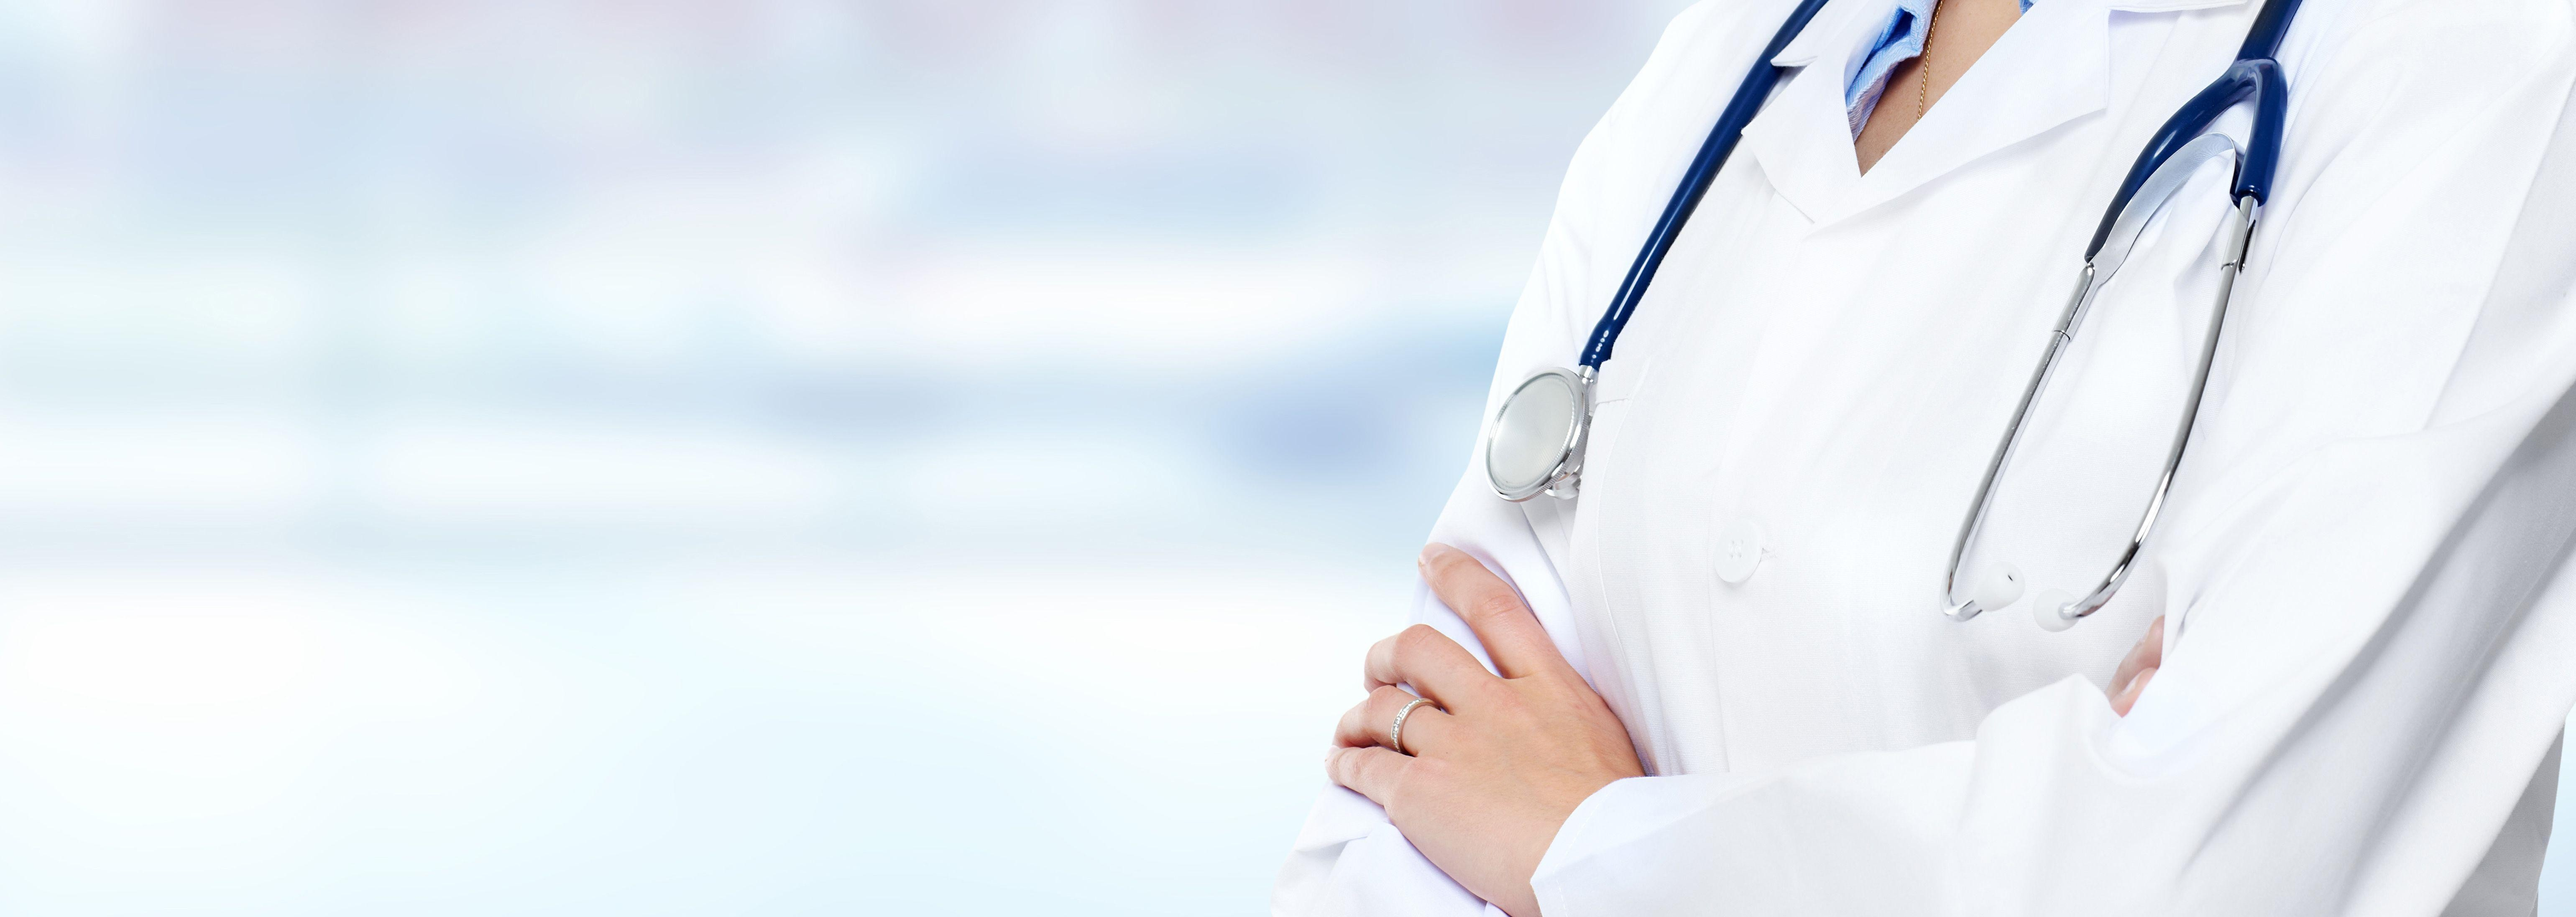
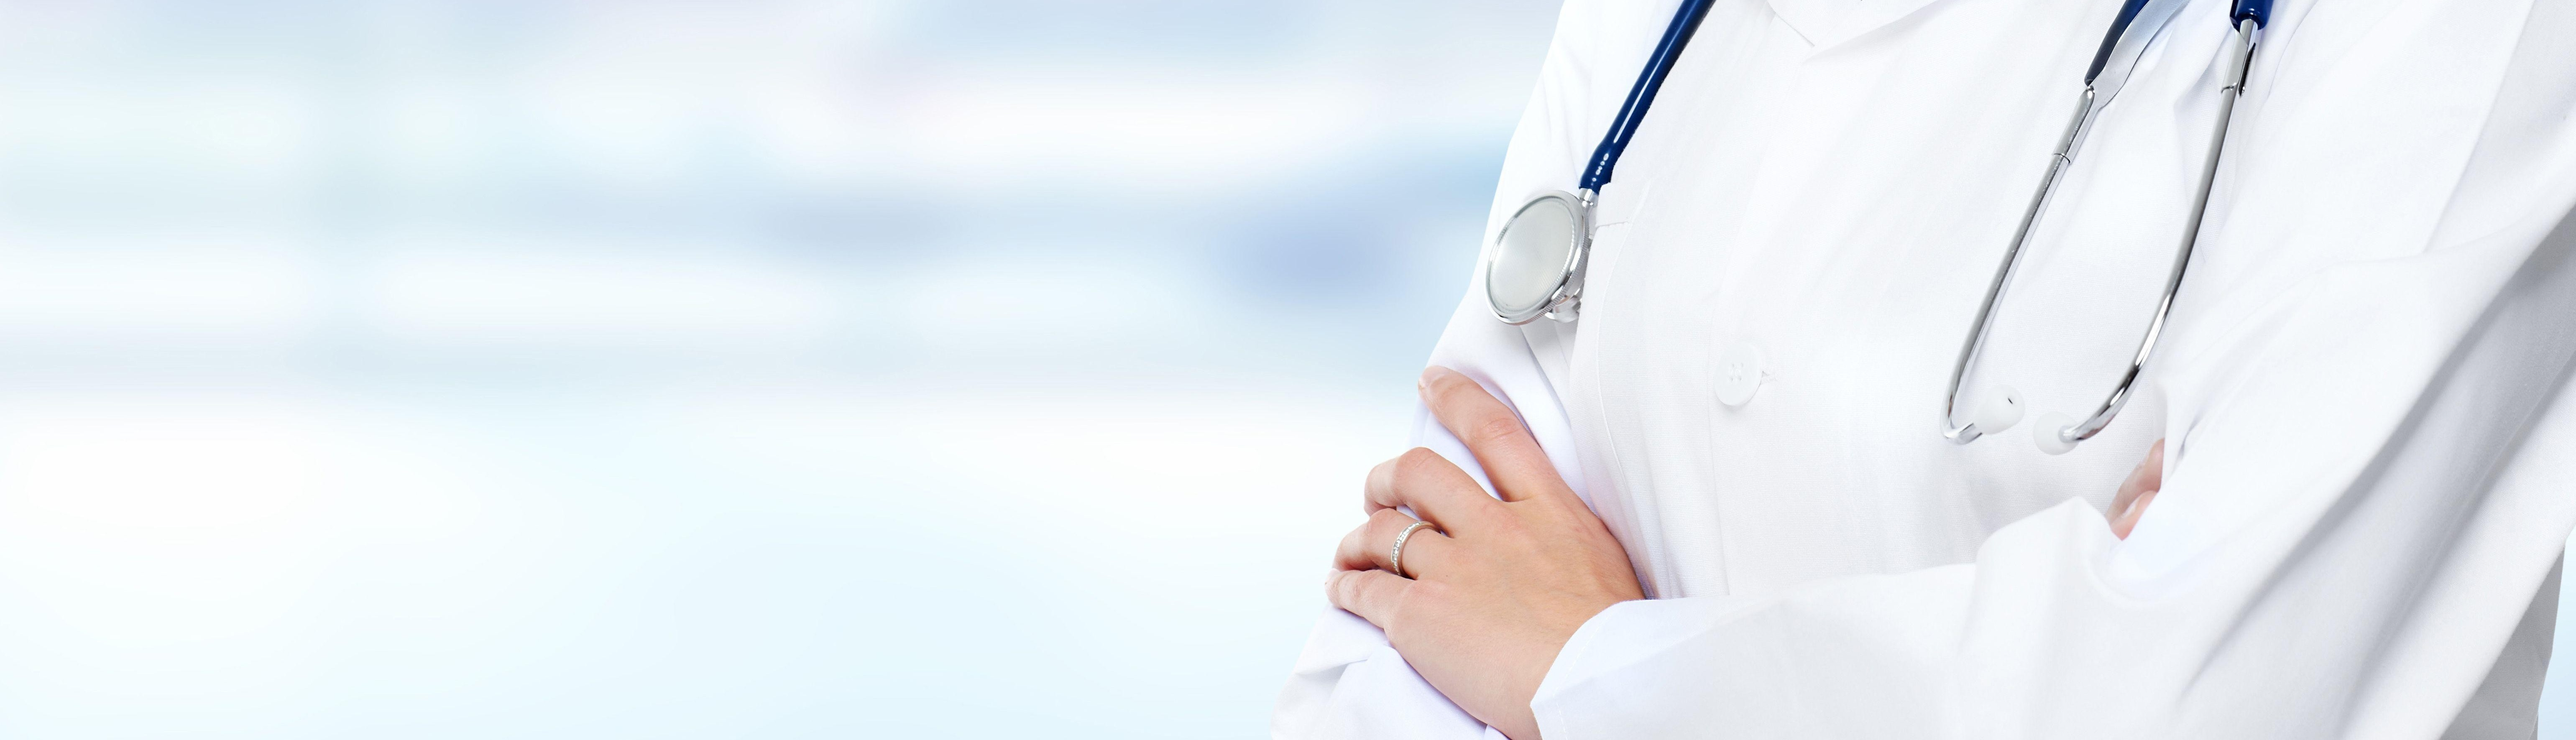
changes2

diff --git a/src/Pages/HealthCheckup/HealthCheckup.jsx b/src/Pages/HealthCheckup/HealthCheckup.jsx
@@ -2,12 +2,13 @@ import React, { useState, useEffect } from "react";
 import Navbar from "../../Components/Navbar/Navbar";
 import Footer from "../../Components/Footer/Footer";
 import api from "../../Api/Api";
+import { Link } from "react-router-dom"; // ← added
 import "./HealthCheckup.css";
 
 const HealthCheckup = () => {
   const [banner] = useState({
     image:
-      "https://images.unsplash.com/photo-1576091160399-112ba8d25d1d?q=80&w=1170&auto=format&fit=crop&ixlib=rb-4.1.0&ixid=M3wxMjA3fDB8MHxwaG90by1wYWdlfHx8fGVufDB8fHx8fA%3D%3D",
+      "/health-checkup-banner.jpg",
   });
 
   const [packages, setPackages] = useState([]);
@@ -22,7 +23,7 @@ const HealthCheckup = () => {
     phone: "",
     message: "",
   });
-  const [bookingStatus, setBookingStatus] = useState(""); // success/error message
+  const [bookingStatus, setBookingStatus] = useState("");
 
   // Fetch health checkup packages
   useEffect(() => {
@@ -33,7 +34,6 @@ const HealthCheckup = () => {
 
         const response = await api.get("/api/health-checkups/");
 
-        // Sort by priority (lower number = higher priority)
         const sortedPackages = response.data.sort(
           (a, b) => parseFloat(a.priority) - parseFloat(b.priority)
         );
@@ -52,7 +52,7 @@ const HealthCheckup = () => {
 
   const openModal = (pkg) => {
     setSelectedPackage(pkg);
-    setBookingStatus(""); // reset status
+    setBookingStatus("");
     setModalOpen(true);
   };
 
@@ -78,7 +78,7 @@ const HealthCheckup = () => {
       setBookingStatus("Booking in progress...");
 
       const payload = {
-        plan_id: selectedPackage.id,   // send slug to identify package
+        plan_id: selectedPackage.id,
         name: formData.name,
         email: formData.email,
         phone_number: formData.phone,
@@ -87,7 +87,6 @@ const HealthCheckup = () => {
 
       const response = await api.post("/api/health-checkup/book/", payload);
 
-      // Success
       setBookingStatus("Booking successful! You will receive confirmation soon.");
       alert("Booking confirmed! Check your email/SMS for details.");
       closeModal();
@@ -104,11 +103,14 @@ const HealthCheckup = () => {
     return (
       <>
         <Navbar />
-        <section
-          className="healthcheckup-banner"
-          style={{ backgroundImage: `url(${banner.image})` }}
-        >
+        <section className="healthcheckup-banner">
           <div className="banner-overlay"></div>
+          <div className="banner-content">
+            <h1>Health Checkups</h1>
+            <div className="breadcrumb">
+              <Link to="/">Home</Link> <span>/</span> <span>Health Checkups</span>
+            </div>
+          </div>
         </section>
         <div style={{ textAlign: "center", padding: "100px 20px" }}>
           Loading health checkup packages...
@@ -122,11 +124,14 @@ const HealthCheckup = () => {
     return (
       <>
         <Navbar />
-        <section
-          className="healthcheckup-banner"
-          style={{ backgroundImage: `url(${banner.image})` }}
-        >
+        <section className="healthcheckup-banner">
           <div className="banner-overlay"></div>
+          <div className="banner-content">
+            <h1>Health Checkups</h1>
+            <div className="breadcrumb">
+              <Link to="/">Home</Link> <span>/</span> <span>Health Checkups</span>
+            </div>
+          </div>
         </section>
         <div style={{ textAlign: "center", padding: "100px 20px", color: "red" }}>
           {error}
@@ -140,11 +145,14 @@ const HealthCheckup = () => {
     <>
       <Navbar />
 
-      <section
-        className="healthcheckup-banner"
-        style={{ backgroundImage: `url(${banner.image})` }}
-      >
+      <section className="healthcheckup-banner">
         <div className="banner-overlay"></div>
+        <div className="banner-content">
+          <h1>Health Checkups</h1>
+          <div className="breadcrumb">
+            <Link to="/">Home</Link> <span>/</span> <span>Health Checkups</span>
+          </div>
+        </div>
       </section>
 
       <section className="healthcheckup-section">
@@ -167,7 +175,6 @@ const HealthCheckup = () => {
                 <div className="package-content">
                   <h3 className="package-title">{pkg.title}</h3>
 
-                  {/* Scrollable Tests */}
                   <div className="tests-container">
                     <ul className="tests-list">
                       {pkg.tests.map((test, i) => (
@@ -176,7 +183,6 @@ const HealthCheckup = () => {
                     </ul>
                   </div>
 
-                  {/* Footer pinned at bottom */}
                   <div className="package-footer">
                     <p className="package-price">
                       ₹{parseFloat(pkg.price).toLocaleString()}

diff --git a/src/Pages/HealthCheckup/HealthCheckup.css b/src/Pages/HealthCheckup/HealthCheckup.css
@@ -1,8 +1,12 @@
 .healthcheckup-banner {
+  background: url("/health-checkup-banner.jpg") no-repeat center/cover;
   position: relative;
   height: 300px;
   background-size: cover;
   background-position: center;
+  display: flex;
+  align-items: center;
+  padding-left: 8%;
 }
 
 .banner-overlay {
@@ -10,6 +14,42 @@
   inset: 0;
   background: rgba(29, 41, 89, 0.65);
 }
+
+.banner-content {
+  position: relative;
+  color: white;
+  z-index: 2;
+}
+
+.banner-content h1 {
+  font-size: 48px;
+  font-weight: 700;
+  margin-bottom: 12px;
+  text-shadow: 0 3px 10px rgba(0,0,0,0.5);
+}
+
+.banner-content .breadcrumb {
+  font-size: 17px;
+}
+
+.banner-content .breadcrumb a,
+.banner-content .breadcrumb span {
+  color: white;
+  text-decoration: none;
+}
+
+.banner-content .breadcrumb a:hover {
+  text-decoration: underline;
+}
+
+.banner-content .breadcrumb span {
+  margin: 0 8px;
+  opacity: 0.85;
+}
+
+/* ──────────────────────────────────────────────── */
+/* Everything below this line is unchanged          */
+/* ──────────────────────────────────────────────── */
 
 .healthcheckup-section {
   padding: 80px 0;
@@ -84,12 +124,10 @@
 .tests-container {
   flex: 1;
   max-height: 140px;
-  /* fixed scroll area */
   overflow-y: auto;
   margin-bottom: 12px;
   padding-right: 6px;
 }
-
 
 .tests-container::-webkit-scrollbar {
   width: 5px;
@@ -144,7 +182,6 @@
   border-radius: 8px;
   cursor: pointer;
 }
-
 
 /* ================= MODAL & FORM STYLINGS ================= */
 
@@ -265,7 +302,7 @@
   transform: translateY(0);
 }
 
-/* ── Form validation hint (optional – add when you implement real validation) ── */
+/* ── Form validation hint ── */
 .booking-form input:invalid:not(:placeholder-shown),
 .booking-form textarea:invalid:not(:placeholder-shown) {
   border-color: #ef4444;
@@ -277,7 +314,6 @@
 }
 
 @media (max-width: 768px) {
-
   .package-card {
     margin: 0 auto;
   }

diff --git a/src/Components/Footer/Footer.jsx b/src/Components/Footer/Footer.jsx
@@ -7,7 +7,7 @@ import {
   FaFacebookF,
   FaInstagram,
   FaLinkedinIn,
-  FaTwitter,
+  FaYoutube,
 } from "react-icons/fa";
 
 import "./Footer.css";
@@ -55,17 +55,17 @@ const Footer = () => {
             Velpro Hospital is a trusted multi-speciality healthcare center committed to delivering advanced medical care with compassion, clinical excellence, and patient-focused treatment for better health outcomes.
           </p>
           <div className="social-icons">
-            <a href="https://facebook.com" target="_blank" rel="noopener noreferrer" aria-label="Facebook">
+            <a href="https://www.facebook.com/people/Velpro-Hospital/61588577412301/" target="_blank" rel="noopener noreferrer" aria-label="Facebook">
               <FaFacebookF />
             </a>
-            <a href="https://instagram.com" target="_blank" rel="noopener noreferrer" aria-label="Instagram">
+            <a href="https://www.instagram.com/velprohospital/" target="_blank" rel="noopener noreferrer" aria-label="Instagram">
               <FaInstagram />
             </a>
-            <a href="https://linkedin.com" target="_blank" rel="noopener noreferrer" aria-label="LinkedIn">
+            <a href="https://www.linkedin.com/company/velpro-hospitals/" target="_blank" rel="noopener noreferrer" aria-label="LinkedIn">
               <FaLinkedinIn />
             </a>
-            <a href="https://x.com" target="_blank" rel="noopener noreferrer" aria-label="X (Twitter)">
-              <FaTwitter />
+            <a href="https://www.youtube.com/channel/UCgNFuoaEsAzc02B1W9g3DEQ" target="_blank" rel="noopener noreferrer" aria-label="Youtube">
+              <FaYoutube />
             </a>
           </div>
         </div>

diff --git a/src/Pages/About/About.css b/src/Pages/About/About.css
@@ -72,7 +72,6 @@
     color: #1e295a !important;
     font-size: 45px !important;
     font-weight: 600;
-    text-transform: uppercase;
     letter-spacing: 1px;
     margin-bottom: 0px !important;
 }
@@ -204,7 +203,6 @@
     color: #1d2959;
     font-size: 38px;
     font-weight: 600;
-    text-transform: uppercase;
     letter-spacing: 1px;
     margin-bottom: 12px;
 }
@@ -285,9 +283,9 @@
 
 .about-founders-container h2 {
     text-align: center;
-    font-size: 42px;
+    font-size: 45px;
     margin-bottom: 80px;
-    color: #1f2937;
+    color: #1e295a !important;
 }
 
 .about-founder-block {

diff --git a/src/Components/TestimonialsSection/TestimonialsSection.css b/src/Components/TestimonialsSection/TestimonialsSection.css
@@ -42,7 +42,7 @@ display: inline-flex;
 .testi-title {
   font-size: 38px;
   font-weight: 800;
-  color: #0f172a;
+  color: #1e295a !important;
   margin: 0;
 }
 

diff --git a/src/Components/HomeBlogSection/HomeBlogSection.css b/src/Components/HomeBlogSection/HomeBlogSection.css
@@ -18,7 +18,7 @@
 .home-blog-title {
   font-size: 36px;
   font-weight: 800;
-  color: #111827;
+  color: #1e295a !important;
   margin-bottom: 12px;
 }
 
